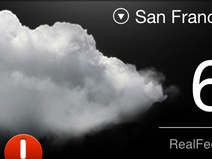
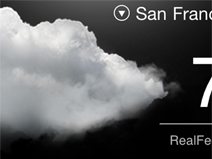
Added retina imagery for the screenshots.

diff --git a/index.html b/index.html
@@ -35,7 +35,7 @@ title: Rick Harrison
 
 <ul class="work-list">
     <li>
-        <a class="screenshot" href="http://sincerely.com/ink" target="_blank"><img src="/images/work/ink_iphone.png" /></a>
+        <a class="screenshot sincerely-ink" href="http://sincerely.com/ink" target="_blank"></a>
 
         <h3>Sincerely Ink</h3>
         <p>Send beautiful cards directly to your loved ones from your iPhone, Android or iPad. Sending Christmas and Holiday cards has never been easier.</p>
@@ -43,14 +43,14 @@ title: Rick Harrison
     </li>
 
     <li>
-        <a class="screenshot" href="http://itunes.apple.com/us/app/zappos-mobile/id392988420?mt=8" target="_blank"><img src="/images/work/zappos_iphone.png" /></a>
+        <a class="screenshot zappos-iphone" href="http://itunes.apple.com/us/app/zappos-mobile/id392988420?mt=8" target="_blank"></a>
 
         <h3>Zappos iPhone App</h3>
         <p>The great Zappos.com customer experience brought to iPhone. Browsing and comparing products showcases this app's ease of use.</p>
     </li>
 
     <li>
-        <a class="screenshot" href="http://itunes.apple.com/us/app/postagram/id429264904?mt=8" target="_blank"><img src="/images/work/postagram_iphone.png" /></a>
+        <a class="screenshot postagram" href="http://itunes.apple.com/us/app/postagram/id429264904?mt=8" target="_blank"></a>
 
         <h3>Postagram iPhone App</h3>
         <p>Your favorite digital photos can now be sent to anyone as part of a physical postcard in the mail! All for only 99 cents.</p>
@@ -58,7 +58,7 @@ title: Rick Harrison
     </li>
 
     <li>
-        <a class="screenshot" href="http://dev.sincerely.com" target="_blank"><img src="/images/work/sincerely_ship.png" /></a>
+        <a class="screenshot sincerely-ship" href="http://dev.sincerely.com" target="_blank"></a>
 
         <h3>Sincerely Ship iOS Library</h3>
         <p>Any developer can add the ability to print & ship photos from their iOS application. Include this library to engage your users and monetize your app.</p>
@@ -66,21 +66,21 @@ title: Rick Harrison
     </li>
 
     <li>
-        <a class="screenshot" href="http://www.zappos.com/zappos-ipad-app" target="_blank"><img src="/images/work/zappos_ipad.png" /></a>
+        <a class="screenshot zappos-ipad" href="http://www.zappos.com/zappos-ipad-app" target="_blank"></a>
 
         <h3>Zappos iPad App</h3>
         <p>Core shopping experience for Zappos.com presented on the iPad. Users can browse, compare, and buy from a wide range of products.</p>
     </li>
 
     <li>
-        <a class="screenshot" href="http://itunes.apple.com/us/app/accuweather-com-quick/id348618445?mt=8" target="_blank"><img src="/images/work/accuweather_quick_iphone.png" /></a>
+        <a class="screenshot accuweather-quick" href="http://itunes.apple.com/us/app/accuweather-com-quick/id348618445?mt=8" target="_blank"></a>
 
         <h3>AccuWeather Quick App</h3>
         <p>Weather for iPhone users on the go. Developed for quick looks without loading times or confusing metrics. </p>
     </li>
 
     <li>
-        <a class="screenshot" href="http://itunes.apple.com/us/app/popbooth-photo-booth/id432092216?mt=8" target="_blank"><img src="/images/work/popbooth_ipad.png" /></a>
+        <a class="screenshot popbooth" href="http://itunes.apple.com/us/app/popbooth-photo-booth/id432092216?mt=8" target="_blank"></a>
 
         <h3>PopBooth iOS App</h3>
         <p>Photo booth strips shareable via facebook, email, and as a physical print sent to anyone you want in the mail.</p>
@@ -88,38 +88,31 @@ title: Rick Harrison
     </li>
 
     <li>
-        <a class="screenshot" href="https://itunes.apple.com/us/app/accuweather-weather-for-life/id364616869?mt=8" target="_blank"><img src="/images/work/accuweather_ipad.png" /></a>
+        <a class="screenshot accuweather-ipad" href="https://itunes.apple.com/us/app/accuweather-weather-for-life/id364616869?mt=8" target="_blank"></a>
 
         <h3>AccuWeather iPad App</h3>
         <p>Weather beautifully designed for iPad. Forecasts, hourly, radar, and video all-in-one.</p>
     </li>
 
     <li>
-        <a class="screenshot" href="http://trackthepack.com" target="_blank"><img src="/images/work/trackthepack_iphone.png" /></a>
+        <a class="screenshot trackthepack" href="http://itunes.apple.com/us/app/trackthepack/id365902611?mt=8" target="_blank"></a>
 
         <h3>TrackThePack iPhone App</h3>
         <p>Enter in a tracking number and the app will do the rest. Find detailed events about where your package has been and where it will be going.</p>
     </li>
 
     <li>
-        <a class="screenshot" href="http://itunes.apple.com/us/app/baseball-trade-rumors/id399288399?mt=8" target="_blank"><img src="/images/work/mlbtraderumors_iphone.png" /></a>
+        <a class="screenshot mlbtr" href="http://itunes.apple.com/us/app/baseball-trade-rumors/id399288399?mt=8" target="_blank"></a>
 
         <h3>MLB Trade Rumors iPhone</h3>
         <p>Custom push notifications made this application a hit for MLBTradeRumors.com. Their readers get news delivered to them instantly using their iPhone.</p>
     </li>
 
     <li>
-        <a class="screenshot" href="http://itunes.apple.com/us/app/accuweather-for-iphone/id300048137?mt=8" target="_blank"><img src="/images/work/accuweather_iphone.png" /></a>
+        <a class="screenshot accuweather-iphone" href="http://itunes.apple.com/us/app/accuweather-for-iphone/id300048137?mt=8" target="_blank"></a>
 
         <h3>AccuWeather iPhone App</h3>
         <p>AccuWeather's flagship application for iPhone. Beautifully displays everything from current conditions to radar overlays on Google Maps.</p>
-    </li>
-
-    <li>
-        <a class="screenshot" href="http://itunes.apple.com/us/app/cardinal-facebook-postcards/id496037989?mt=8" target="_blank"><img src="/images/work/cardinal_iphone.png" /></a>
-
-        <h3>Cardinal iPhone App</h3>
-        <p>Cardinal is the best way to send your favorite facebook photos to your friends as postcards in the mail.</p>
     </li>
 </ul>
 

diff --git a/styles/main.css b/styles/main.css
@@ -268,7 +268,10 @@ span.highlight {
 }
 
 a.screenshot, a.screenshot:visited {
-    background: #E2E2E2;
+    background-color: #E2E2E2;
+    background-position: 5px;
+    background-repeat: no-repeat;
+    background-size: 212px 159px;
     display: block;
     height: 159px;
     margin: 0px 0px 6px 0px;
@@ -277,7 +280,7 @@ a.screenshot, a.screenshot:visited {
 }
 
 a.screenshot:hover, a.screenshot:active {
-    background: #444444;
+    background-color: #444444;
 }
 
 /* Links */
@@ -361,8 +364,38 @@ p a:hover, p a:active {
 }
 
 /*
+ * Screenshots
+ */
+
+.sincerely-ink { background-image: url('/images/work/ink.png'); }
+.zappos-iphone { background-image: url('/images/work/zappos_iphone.png'); }
+.postagram { background-image: url('/images/work/postagram_iphone.png'); }
+.sincerely-ship { background-image: url('/images/work/sincerely_ship.png'); }
+.zappos-ipad { background-image: url('/images/work/zappos_ipad.png'); }
+.accuweather-quick { background-image: url('/images/work/quick_iphone.png'); }
+.popbooth { background-image: url('/images/work/popbooth_ios.png'); }
+.accuweather-ipad { background-image: url('/images/work/accuweather_ipad.png'); }
+.trackthepack { background-image: url('/images/work/trackthepack_iphone.png'); }
+.mlbtr { background-image: url('/images/work/mlbtr_iphone.png'); }
+.accuweather-iphone { background-image: url('/images/work/accuweather_iphone.png'); }
+
+/*
  * Media Queries
  */
+
+@media (-webkit-min-device-pixel-ratio: 1.5), (min-resolution: 144dpi) {
+    .sincerely-ink { background-image: url('/images/work/ink@2x.png'); }
+    .zappos-iphone { background-image: url('/images/work/zappos_iphone@2x.png'); }
+    .postagram { background-image: url('/images/work/postagram_iphone@2x.png'); }
+    .sincerely-ship { background-image: url('/images/work/sincerely_ship@2x.png'); }
+    .zappos-ipad { background-image: url('/images/work/zappos_ipad@2x.png'); }
+    .accuweather-quick { background-image: url('/images/work/quick_iphone@2x.png'); }
+    .popbooth { background-image: url('/images/work/popbooth_ios@2x.png'); }
+    .accuweather-ipad { background-image: url('/images/work/accuweather_ipad@2x.png'); }
+    .trackthepack { background-image: url('/images/work/trackthepack_iphone@2x.png'); }
+    .mlbtr { background-image: url('/images/work/mlbtr_iphone@2x.png'); }
+    .accuweather-iphone { background-image: url('/images/work/accuweather_iphone@2x.png'); }
+}
 
 @media (max-width: 1122px) {
     .side-content {
